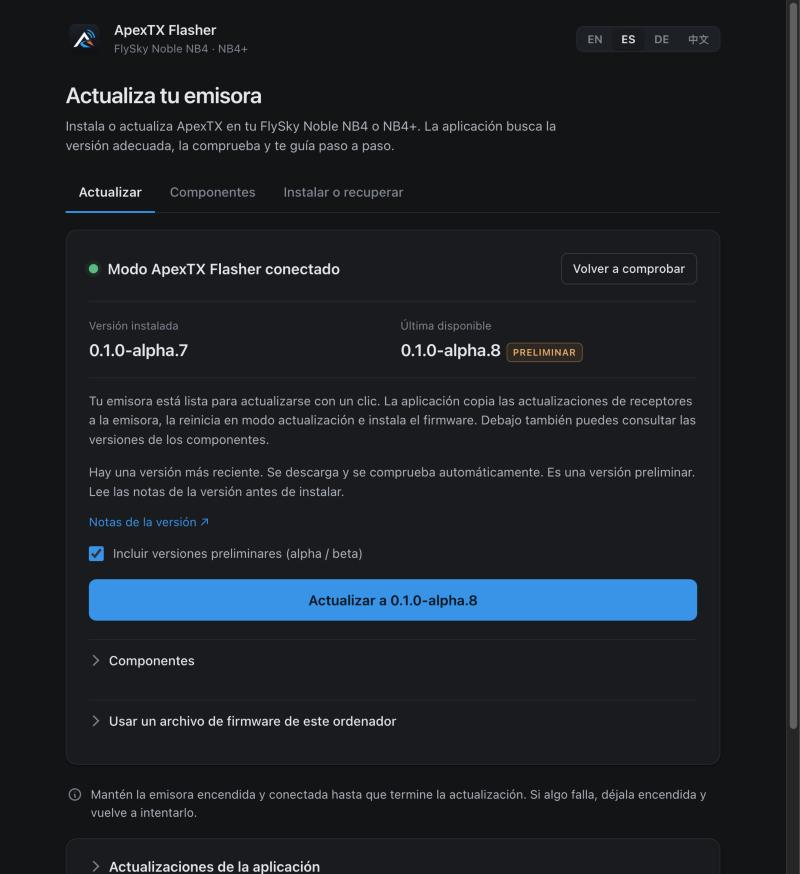
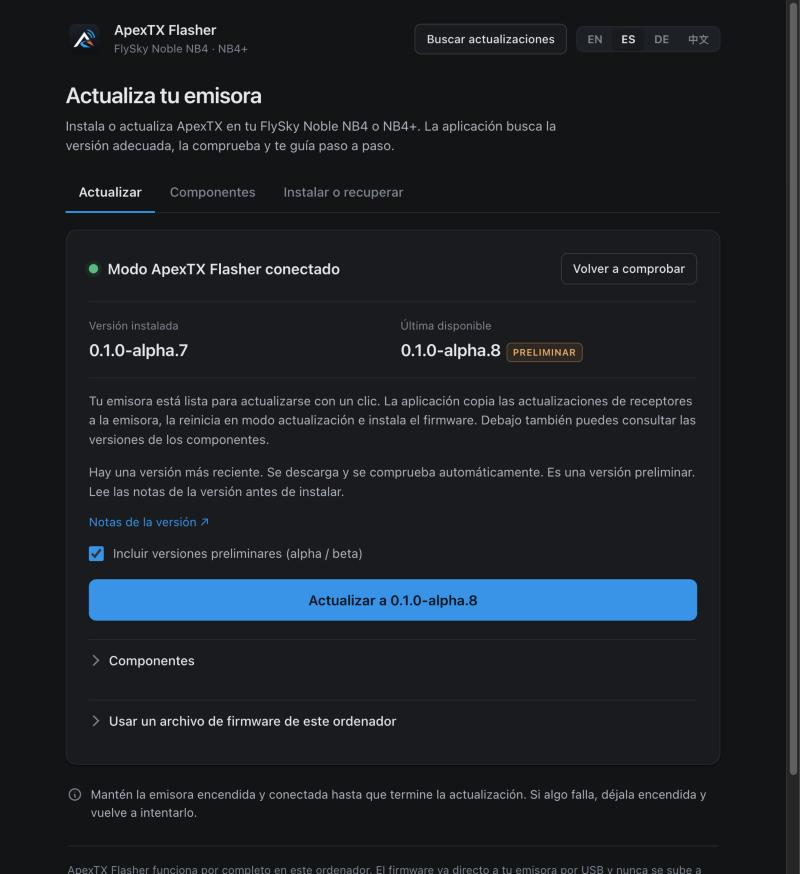
flasher: check for app updates at launch and announce them in a dialog
The desktop app now checks for its own updates every time it opens (and
once a day afterwards) instead of waiting a day after the last check. A
new version is presented in a modal dialog with the release notes, a link
to the GitHub release, "Update and restart", "Remind me later" and "Skip
this version"; download, verification and restart progress stay in the
same dialog. Escape counts as "Remind me later".

"Check for updates" moves to the top bar next to the language switcher and
turns into an "Update available" badge that reopens the dialog while a
version is waiting. The collapsible "App updates" panel is gone; the
installed version, last check and the preview-channel option live in the
footer.

The "Install in my user folder" option is removed. When the app cannot be
replaced in place (disk image, Downloads, read-only folder) the installer
raises RelocationRequired and the controller retries into the user folder
on its own; the footer then shows the new location.

Changed region(s): [[0.0938, 0.9886, 0.875, 1.0], [0.5312, 0.0309, 0.6875, 0.0618], [0.9688, 0.8341, 1.0, 0.8959]]

diff --git a/tools/apextx-updater.html b/tools/apextx-updater.html
@@ -36,6 +36,11 @@ button{font:inherit}
 .brand img{width:40px;height:40px;display:block;border-radius:9px}
 .brand strong{display:block;font-size:15px;font-weight:600;letter-spacing:-.01em;line-height:1.2}
 .brand span{display:block;font-size:12px;color:var(--muted);margin-top:2px}
+.topbar-right{display:flex;align-items:center;gap:10px;flex-wrap:wrap;justify-content:flex-end}
+.topbar-right .quiet{min-height:32px;font-size:12.5px}
+.pill{display:inline-flex;align-items:center;gap:7px;min-height:32px;padding:6px 12px;border:0;border-radius:999px;background:var(--accent);color:var(--accent-ink);font-size:12.5px;font-weight:600;cursor:pointer}
+.pill::before{content:"";width:7px;height:7px;border-radius:50%;background:currentColor;opacity:.85}
+.pill:hover{background:var(--accent-hover)}
 .lang{display:flex;gap:2px;background:var(--surface2);border:1px solid var(--line);border-radius:8px;padding:2px}
 .lang button{all:unset;cursor:pointer;font-size:12px;font-weight:600;color:var(--muted);padding:5px 9px;border-radius:6px;line-height:1}
 .lang button:hover{color:var(--text)}
@@ -137,13 +142,28 @@ details[open]>summary::before{transform:rotate(45deg)}
 .manual .cta{font-size:14px;min-height:40px}
 .wizard-step{border-top:1px solid var(--line);margin-top:16px}
 .wizard-step summary{font-size:15px;font-weight:600}
-#appUpdates{margin-top:18px;padding:4px 24px 20px}
-#appUpdates>summary{font-size:15px;font-weight:600;padding:14px 0}
-#appUpdates>p{font-size:13.5px;color:var(--text2);margin:10px 0 0;overflow-wrap:anywhere}
-#appUpdateStatus{color:var(--text)}
-#appUpdateNotes{white-space:pre-wrap;font:inherit;font-size:13.5px;color:var(--text2);margin:10px 0 0;overflow-wrap:anywhere}
-#appUpdateNotes:empty,#appInstallLocation:empty,#appUpdateError:empty{display:none}
-#appUpdates>p:last-child{font-size:12px;color:var(--muted);margin-top:16px}
+/* App update dialog */
+#appDialog{border:1px solid var(--line);border-radius:14px;background:var(--surface);color:var(--text);padding:0;width:min(540px,calc(100vw - 32px));max-height:calc(100vh - 48px);overflow:auto;box-shadow:0 24px 64px rgba(0,0,0,.35)}
+#appDialog::backdrop{background:rgba(8,10,14,.55)}
+.dlg{padding:26px 28px 24px}
+.dlg-head{display:flex;gap:16px;align-items:flex-start}
+.dlg-head img{width:60px;height:60px;border-radius:14px;flex:none}
+.dlg-head h2{font-size:17px;font-weight:600;letter-spacing:-.01em;margin:6px 0 4px;line-height:1.3}
+.dlg-head p{margin:0;color:var(--text2);font-size:13.5px}
+.dlg-notes{margin:20px 0 0;border:1px solid var(--line);border-radius:9px;background:var(--surface2);padding:12px 14px;max-height:220px;overflow:auto}
+.dlg-notes h3{font-size:11.5px;text-transform:uppercase;letter-spacing:.05em;color:var(--muted);margin:0 0 6px;font-weight:600}
+.dlg-notes pre{white-space:pre-wrap;font:inherit;font-size:13.5px;color:var(--text2);margin:0;overflow-wrap:anywhere;line-height:1.5}
+.dlg-link{display:inline-block;margin-top:12px;font-size:13px;text-decoration:none}
+.dlg-link:hover{text-decoration:underline}
+.dlg-progress{margin-top:22px}
+.dlg-progress p{margin:0;font-size:13.5px;color:var(--text2)}
+#appDialogNote{margin:16px 0 0;font-size:13.5px;color:var(--warn)}
+#appDialogError{margin:16px 0 0;font-size:13.5px}
+.dlg-actions{display:flex;gap:8px;align-items:center;margin-top:24px;flex-wrap:wrap}
+.dlg-actions .spacer{flex:1}
+.dlg-actions .cta{width:auto;margin:0;min-height:36px;padding:7px 18px;font-size:14px}
+.dlg-actions .quiet{margin:0}
+.dlg-signing{margin:18px 0 0;font-size:12px;color:var(--muted);line-height:1.5}
 
 /* Bootloader guide */
 .bootloader-guide{margin-top:22px;border-top:1px solid var(--line);padding-top:20px;scroll-margin-top:20px}
@@ -168,7 +188,12 @@ details[open]>summary::before{transform:rotate(45deg)}
 #componentErrorTechnical{white-space:pre-wrap;overflow-wrap:anywhere;font-size:12px;color:var(--muted);margin:0 0 10px}
 
 footer{font-size:12px;color:var(--muted);margin:26px 2px 0;border-top:1px solid var(--line);padding-top:16px;line-height:1.55}
-footer .meta{display:inline-block;margin-top:6px}
+footer .meta{display:block;margin-top:6px}
+#appUpdateCheck:not(:empty)::before,#appInstallLocation:not(:empty)::before{content:" · "}
+footer #appUpdateError{margin:6px 0 0;font-size:12.5px}
+footer #appUpdateError:empty{display:none}
+.footer-channel{font-size:12.5px;color:var(--muted);margin-top:10px}
+.footer-channel input{width:14px;height:14px;margin-top:2px}
 footer a{color:var(--muted);text-decoration:none}
 footer a:hover{color:var(--text);text-decoration:underline}
 
@@ -179,7 +204,11 @@ button:focus-visible,summary:focus-visible,input:focus-visible,a:focus-visible,s
 <main>
 <header class="topbar">
   <div class="brand"><img src="__LOGO_DATA__" alt=""><div><strong>ApexTX Flasher</strong><span>FlySky Noble NB4 · NB4+</span></div></div>
-  <div class="lang" id="lang"><button data-lang="en">EN</button><button data-lang="es">ES</button><button data-lang="de">DE</button><button data-lang="cn">中文</button></div>
+  <div class="topbar-right">
+    <button class="quiet" id="appCheck" data-k="appCheck">Check for updates</button>
+    <button class="pill" id="appShow" data-k="appShow" hidden></button>
+    <div class="lang" id="lang"><button data-lang="en">EN</button><button data-lang="es">ES</button><button data-lang="de">DE</button><button data-lang="cn">中文</button></div>
+  </div>
 </header>
 
 <h1 data-k="h1">Update your radio</h1>
@@ -310,22 +339,23 @@ button:focus-visible,summary:focus-visible,input:focus-visible,a:focus-visible,s
 <div class="status-row" aria-live="polite"><span id="message"></span><span id="percent">0%</span></div></div>
 
 <p class="note"><svg viewBox="0 0 24 24" fill="none" stroke="currentColor" stroke-width="2" stroke-linecap="round" stroke-linejoin="round"><circle cx="12" cy="12" r="9"/><path d="M12 8h.01M11 12h1v4h1"/></svg><span data-k="note"></span></p>
-<details class="panel" id="appUpdates">
-<summary data-k="appTitle">App updates</summary>
-<p id="appUpdateStatus" role="status" aria-live="polite"></p>
-<pre id="appUpdateNotes"></pre>
-<p id="appInstallLocation" class="device-help"></p>
+<dialog id="appDialog" aria-labelledby="appDialogTitle">
+<div class="dlg">
+<div class="dlg-head"><img src="__LOGO_DATA__" alt=""><div><h2 id="appDialogTitle" data-k="appDialogTitle"></h2><p id="appDialogLead"></p></div></div>
+<div class="dlg-notes" id="appDialogNotes"><h3 id="appWhatsNew"></h3><pre id="appUpdateNotes"></pre></div>
+<a class="dlg-link" id="appReleaseLink" target="_blank" rel="noreferrer noopener" data-k="appReleaseLink" hidden></a>
+<div class="dlg-progress" id="appDialogProgress" hidden><progress id="appDialogBar" max="100" value="0" aria-label="Progress"></progress><p id="appDialogState"></p></div>
+<p id="appDialogNote"></p>
+<p id="appDialogError" class="error" role="alert"></p>
+<div class="actions"><button type="button" class="quiet" id="appRadioSafe" hidden data-k="appRadioSafe"></button></div>
+<div class="dlg-actions"><button type="button" class="quiet" id="appSkip" data-k="appSkip"></button><span class="spacer"></span><button type="button" class="quiet" id="appLater" data-k="appLater"></button><button type="button" class="cta" id="appInstall" data-k="appInstall"></button></div>
+<p class="dlg-signing" data-k="appSigning"></p>
+</div>
+</dialog>
+<footer><span data-k="footer"></span>
+<div class="meta"><span id="appUpdateStatus" role="status" aria-live="polite"></span> · <a href="https://github.com/GastonGelhorn/apextx" target="_blank" rel="noreferrer noopener">github.com/GastonGelhorn/apextx</a><span id="appUpdateCheck"></span><span id="appInstallLocation"></span></div>
 <p id="appUpdateError" class="error" role="alert"></p>
-<label class="channel"><input type="checkbox" id="appPreview"><span data-k="appPreview"></span></label>
-<label class="channel"><input type="checkbox" id="appRelocate"><span data-k="appRelocate"></span></label>
-<div class="actions"><button class="cta" id="appInstall" data-k="appInstall">Update and restart</button>
-<button class="quiet" id="appCheck" data-k="appCheck">Check for updates</button>
-<button class="quiet" id="appLater" data-k="appLater"></button>
-<button class="quiet" id="appSkip" data-k="appSkip"></button></div>
-<div class="actions"><button class="quiet" id="appRadioSafe" hidden data-k="appRadioSafe"></button></div>
-<p data-k="appSigning"></p>
-</details>
-<footer><span data-k="footer"></span><br><span class="meta">ApexTX&nbsp;Flasher&nbsp;__APP_VERSION__ · <a href="https://github.com/GastonGelhorn/apextx" target="_blank" rel="noreferrer noopener">github.com/GastonGelhorn/apextx</a></span></footer>
+<label class="channel footer-channel"><input type="checkbox" id="appPreview"><span data-k="appPreview"></span></label></footer>
 </main>
 <script>
 document.getElementById("driverNote").hidden=document.getElementById("bootloaderDriver").hidden=document.documentElement.dataset.platform!=="win32";
@@ -532,17 +562,19 @@ en:{
  "wizardAudioDownload":"Download and prepare",
  "publishingRf":"Copying receiver updates to the radio…",
  "rebooting":"Restarting the radio in update mode…",
- "appTitle":"App updates",
  "appPreview":"Include preview versions of the app",
- "appRelocate":"Install in my user folder",
  "appCheck":"Check for updates",
  "appInstall":"Update and restart",
- "appLater":"Remind me tomorrow",
+ "appLater":"Remind me later",
  "appSkip":"Skip this version",
+ "appShow":"Update available",
+ "appDialogTitle":"A new version of ApexTX Flasher is available",
+ "appDialogLead":"ApexTX Flasher {available} is ready to install. You have version {version}.",
+ "appWhatsNew":"What's new in {version}",
+ "appReleaseLink":"View all release notes ↗",
  "appRadioSafe":"I checked the radio; recovery is finished",
  "appSigning":"Updates are signed by ApexTX and checked before they are installed. Windows or macOS may ask for permission the first time the new version opens.",
  "appInstalled":"ApexTX Flasher {version}",
- "appAvailable":"Version {version} is available.",
  "appCurrent":"You have the latest version.",
  "appChecking":"Checking for updates…",
  "appDownloading":"Downloading… {progress}%",
@@ -757,17 +789,19 @@ es:{
  "wizardAudioDownload":"Descargar y preparar",
  "publishingRf":"Copiando las actualizaciones de receptores a la emisora…",
  "rebooting":"Reiniciando la emisora en modo actualización…",
- "appTitle":"Actualizaciones de la aplicación",
  "appPreview":"Incluir versiones preliminares de la aplicación",
- "appRelocate":"Instalar en mi carpeta de usuario",
  "appCheck":"Buscar actualizaciones",
  "appInstall":"Actualizar y reiniciar",
- "appLater":"Recordármelo mañana",
+ "appLater":"Recordármelo más tarde",
  "appSkip":"Omitir esta versión",
+ "appShow":"Actualización disponible",
+ "appDialogTitle":"Hay una nueva versión de ApexTX Flasher",
+ "appDialogLead":"ApexTX Flasher {available} está lista para instalarse. Tienes la versión {version}.",
+ "appWhatsNew":"Novedades de {version}",
+ "appReleaseLink":"Ver todas las notas de la versión ↗",
  "appRadioSafe":"He revisado la emisora; la recuperación ha terminado",
  "appSigning":"Las actualizaciones están firmadas por ApexTX y se comprueban antes de instalarse. Windows o macOS pueden pedir permiso la primera vez que se abra la nueva versión.",
  "appInstalled":"ApexTX Flasher {version}",
- "appAvailable":"La versión {version} está disponible.",
  "appCurrent":"Tienes la última versión.",
  "appChecking":"Buscando actualizaciones…",
  "appDownloading":"Descargando… {progress}%",
@@ -982,17 +1016,19 @@ de:{
  "wizardAudioDownload":"Herunterladen und vorbereiten",
  "publishingRf":"Empfänger-Updates werden auf den Sender kopiert…",
  "rebooting":"Sender startet im Update-Modus neu…",
- "appTitle":"App-Updates",
  "appPreview":"Vorschauversionen der App einschließen",
- "appRelocate":"In meinem Benutzerordner installieren",
  "appCheck":"Nach Updates suchen",
  "appInstall":"Aktualisieren und neu starten",
- "appLater":"Morgen erinnern",
+ "appLater":"Später erinnern",
  "appSkip":"Diese Version überspringen",
+ "appShow":"Update verfügbar",
+ "appDialogTitle":"Eine neue Version von ApexTX Flasher ist verfügbar",
+ "appDialogLead":"ApexTX Flasher {available} kann jetzt installiert werden. Du hast Version {version}.",
+ "appWhatsNew":"Neu in {version}",
+ "appReleaseLink":"Alle Versionshinweise ansehen ↗",
  "appRadioSafe":"Ich habe den Sender geprüft; die Wiederherstellung ist abgeschlossen",
  "appSigning":"Updates sind von ApexTX signiert und werden vor der Installation geprüft. Windows oder macOS fragen beim ersten Öffnen der neuen Version eventuell um Erlaubnis.",
  "appInstalled":"ApexTX Flasher {version}",
- "appAvailable":"Version {version} ist verfügbar.",
  "appCurrent":"Du hast die neueste Version.",
  "appChecking":"Updates werden gesucht…",
  "appDownloading":"Wird heruntergeladen… {progress}%",
@@ -1207,17 +1243,19 @@ cn:{
  "wizardAudioDownload":"下载并准备",
  "publishingRf":"正在将接收机更新复制到遥控器…",
  "rebooting":"遥控器正在重启进入更新模式…",
- "appTitle":"应用更新",
  "appPreview":"包含应用的预览版",
- "appRelocate":"安装到我的用户文件夹",
  "appCheck":"检查更新",
  "appInstall":"更新并重启",
- "appLater":"明天提醒我",
+ "appLater":"稍后提醒我",
  "appSkip":"跳过此版本",
+ "appShow":"有可用更新",
+ "appDialogTitle":"ApexTX Flasher 有新版本",
+ "appDialogLead":"ApexTX Flasher {available} 已可安装。你当前的版本是 {version}。",
+ "appWhatsNew":"{version} 的新功能",
+ "appReleaseLink":"查看全部版本说明 ↗",
  "appRadioSafe":"我已检查遥控器；恢复已完成",
  "appSigning":"更新由 ApexTX 签名，并在安装前进行校验。首次打开新版本时，Windows 或 macOS 可能会请求权限。",
  "appInstalled":"ApexTX Flasher {version}",
- "appAvailable":"版本 {version} 可用。",
  "appCurrent":"你已安装最新版本。",
  "appChecking":"正在检查更新…",
  "appDownloading":"正在下载… {progress}%",
@@ -1399,41 +1437,56 @@ rstart.onclick=()=>send('/api/recover',rfile.files[0],{'X-ApexTX-Radio-Variant':
 function clearError(){localError=null;if(!snapshot?.operation){$('#transfer').hidden=true;message.textContent='';message.className='';}}
 function showError(text){if(mode==='components'){$('#componentTransferSlot').appendChild($('#transfer'));$('#componentErrorDetails').hidden=false;$('#componentErrorTechnical').textContent=text;text=componentError(text);}localError=text;message.textContent=text;message.className='error';$('#transfer').hidden=false;}
 async function request(path,data={}){localError=null;requesting=true;render();try{const r=await fetch(path,{method:'POST',headers:{'X-ApexTX-Token':token,'Content-Type':'application/json'},body:JSON.stringify(data)});const j=await r.json();if(!r.ok)throw Error(j.error);if(path.startsWith('/api/components/')&&r.status===202)running=true;return true;}catch(e){showError(e.message);return false;}finally{requesting=false;render();}}
+const appDialog=$('#appDialog');let dialogShown=null,dialogPinned=false;
+function openDialog(){if(appDialog.open)return;if(appDialog.showModal)appDialog.showModal();else appDialog.open=true;}
+function closeDialog(){dialogPinned=false;if(!appDialog.open)return;if(appDialog.close)appDialog.close();else appDialog.open=false;}
 function renderAppUpdate(){
- const a=snapshot?.app_update||{},d=T[lang],busy=['downloading','verifying','restarting'].includes(a.state);
- let text=(d.appInstalled||'').replace('{version}',a.version||'__APP_VERSION__');
- const key={checking:'appChecking',current:'appCurrent',downloading:'appDownloading',verifying:'appVerifying',restarting:'appRestarting',error:'appOffline'}[a.state];
- if(key)text+=' · '+d[key].replace('{progress}',a.progress||0);
- else if(a.available&&!a.hidden)text+=' · '+d.appAvailable.replace('{version}',a.available);
- if(a.blocked)text+=' '+d.appBlocked;
- if(!a.supported)text+=' '+d.appUnsupported;
- if(a.available&&!a.compatible)text+=' '+d.appIncompatible;
- if(a.last_check)text+=' '+d.appLastCheck.replace('{date}',new Date(a.last_check*1000).toLocaleString());
- if(a.last_result?.result==='updated'&&a.last_result.version===a.version)text+=' '+d.appUpdated;
+ const a=snapshot?.app_update||{},d=T[lang],busy=['downloading','verifying','restarting'].includes(a.state),offer=!!a.available&&!!a.supported;
+ const stateKey={checking:'appChecking',current:'appCurrent',downloading:'appDownloading',verifying:'appVerifying',restarting:'appRestarting',error:'appOffline'}[a.state];
+ // Top bar button, footer status and channel.
+ let text=d.appInstalled.replace('{version}',a.version||'__APP_VERSION__');
+ if(busy||a.state==='checking'||(a.state==='error'&&!a.available))text+=' · '+d[stateKey].replace('{progress}',a.progress||0);
+ else if(a.last_result?.result==='updated'&&a.last_result.version===a.version)text+=' · '+d.appUpdated;
+ else if(a.state==='current'&&!a.available)text+=' · '+d.appCurrent;
+ if(!a.supported)text+=' · '+d.appUnsupported;
  $('#appUpdateStatus').textContent=text;
+ $('#appUpdateCheck').textContent=a.last_check&&!busy?d.appLastCheck.replace('{date}',new Date(a.last_check*1000).toLocaleString(undefined,{dateStyle:'medium',timeStyle:'short'})):'';
  $('#appInstallLocation').textContent=a.last_result?.location||'';
- $('#appUpdateError').textContent=a.error||a.last_result?.error||'';
- $('#appUpdateNotes').textContent=a.hidden?'':a.notes||'';
- $('#appInstall').disabled=busy||requesting||a.blocked||!a.supported||!a.compatible||!a.available||a.state==='checking';
- $('#appCheck').disabled=busy||requesting||a.state==='checking';
+ $('#appUpdateError').textContent=a.last_result?.error||'';
+ $('#appCheck').hidden=offer&&!busy;$('#appCheck').disabled=busy||requesting||a.state==='checking';
+ $('#appShow').hidden=!offer||busy;$('#appShow').disabled=requesting;
  $('#appPreview').checked=!!a.preview;$('#appPreview').disabled=busy||requesting||a.state==='checking';
- $('#appRelocate').disabled=busy||requesting;
- $('#appLater').hidden=$('#appSkip').hidden=!a.available||a.hidden||busy;
  $('#appRadioSafe').hidden=!snapshot?.radio_unconfirmed;$('#appRadioSafe').disabled=!!snapshot?.running||!!snapshot?.bootloader_install;
- if(a.available&&!a.hidden&&!running&&!a.blocked)$('#appUpdates').open=true;
+ // Update dialog: shown once per offer after the automatic check, again on request.
+ $('#appDialogLead').textContent=offer?d.appDialogLead.replace('{available}',a.available).replace('{version}',a.version||''):'';
+ $('#appWhatsNew').textContent=d.appWhatsNew.replace('{version}',a.available||'');
+ $('#appUpdateNotes').textContent=a.notes||'';
+ $('#appDialogNotes').hidden=!a.notes||busy;
+ $('#appReleaseLink').hidden=!a.release_url||busy;if(a.release_url)$('#appReleaseLink').href=a.release_url;
+ $('#appDialogProgress').hidden=!busy;
+ if(busy){$('#appDialogBar').value=a.state==='downloading'?(a.progress||0):100;$('#appDialogState').textContent=d[stateKey].replace('{progress}',a.progress||0);}
+ $('#appDialogNote').textContent=busy?'':a.blocked?d.appBlocked:offer&&!a.compatible?d.appIncompatible:'';
+ $('#appDialogError').textContent=busy?'':(a.error||'');
+ $('#appInstall').hidden=busy;$('#appInstall').disabled=busy||requesting||!!a.blocked||!a.compatible||!offer||a.state==='checking';
+ $('#appLater').hidden=$('#appSkip').hidden=busy;$('#appLater').disabled=$('#appSkip').disabled=requesting;
+ if(offer&&!a.hidden&&!a.blocked&&!snapshot?.running&&dialogShown!==a.available){dialogShown=a.available;openDialog();}
+ else if(offer&&(busy||dialogPinned))openDialog();
+ if(!offer||(a.hidden&&!busy&&!dialogPinned))closeDialog();
 }
 async function appRequest(action,data={}){
- // Errors belong to the desktop app panel, never the radio progress panel.
+ // Errors belong to the desktop app panel or dialog, never the radio progress panel.
  requesting=true;render();
  try{const r=await fetch('/api/app-update/'+action,{method:'POST',headers:{'X-ApexTX-Token':token,'Content-Type':'application/json'},body:JSON.stringify(data)});const j=await r.json();if(!r.ok)throw Error(j.error);}
- catch(e){$('#appUpdateError').textContent=e.message;}
+ catch(e){$('#appDialogError').textContent=e.message;if(!appDialog.open)$('#appUpdateError').textContent=e.message;}
  finally{requesting=false;}
 }
 $('#appCheck').onclick=()=>appRequest('check');
 $('#appPreview').onchange=()=>appRequest('check',{preview:$('#appPreview').checked});
-$('#appInstall').onclick=()=>{if(!$('#appInstall').disabled)return appRequest('install',{version:snapshot.app_update.available,relocate:$('#appRelocate').checked});};
-$('#appLater').onclick=()=>appRequest('later');
-$('#appSkip').onclick=()=>appRequest('skip');
+$('#appShow').onclick=()=>{if($('#appShow').disabled)return;dialogPinned=true;openDialog();};
+$('#appInstall').onclick=()=>{if(!$('#appInstall').disabled)return appRequest('install',{version:snapshot.app_update.available});};
+$('#appLater').onclick=()=>{dialogPinned=false;return appRequest('later');};
+$('#appSkip').onclick=()=>{dialogPinned=false;return appRequest('skip');};
+if(appDialog.addEventListener)appDialog.addEventListener('cancel',e=>{e.preventDefault();if(!$('#appLater').hidden&&!$('#appLater').disabled)$('#appLater').onclick();});
 $('#appRadioSafe').onclick=()=>appRequest('acknowledge-radio');
 $('#refresh').onclick=()=>request('/api/refresh');
 $('#readComponents').onclick=()=>{if($('#readComponents').disabled)return;const device=snapshot.device;return request('/api/components/read',{serial:device.serial,target:device.target});};
@@ -1479,7 +1532,7 @@ async function poll(){try{const r=await fetch('/api/status',{headers:{'X-ApexTX-
  if(snapshot.operation&&!localError&&!requesting){$('#transfer').hidden=false;message.textContent=operationMessage(snapshot);message.className=snapshot.error?'error':snapshot.progress===100?'good':'';bar.value=snapshot.progress;percent.textContent=`${snapshot.progress}%`;}
  render();
  if(snapshot.bootloader_install&&!hadGuide){$('#bootloaderGuideTitle').focus({preventScroll:true});$('#bootloaderGuide').scrollIntoView({block:'start',behavior:'smooth'});}
- }catch(e){if(snapshot?.app_update?.state==='restarting'){$('#appUpdateStatus').textContent=T[lang].appRestarting;return;}showError(T[lang].unavailable);start.disabled=rstart.disabled=$('#upgrade').disabled=$('#bootloaderInstall').disabled=$('#bootloaderCancel').disabled=true;}
+ }catch(e){if(snapshot?.app_update?.state==='restarting'){$('#appUpdateStatus').textContent=$('#appDialogState').textContent=T[lang].appRestarting;return;}showError(T[lang].unavailable);start.disabled=rstart.disabled=$('#upgrade').disabled=$('#bootloaderInstall').disabled=$('#bootloaderCancel').disabled=true;}
  setTimeout(poll,800);
 }
 applyLang(pick());poll();

diff --git a/tools/flasher_app_update.py b/tools/flasher_app_update.py
@@ -34,6 +34,10 @@ class AppUpdateError(RuntimeError):
         self.retry_seconds = retry_seconds
 
 
+class RelocationRequired(AppUpdateError):
+    """The running copy cannot be replaced in place; install in the user folder."""
+
+
 def json_object(raw):
     def unique(pairs):
         result = {}
@@ -346,7 +350,9 @@ class AppUpdateController:
         self.stopped = threading.Event()
         self.client = client or AppReleaseClient()
         self.checking = False
-        self.next_check = self.preferences.get('last_check', 0) + 86400
+        # Check at every launch (the monitor fires a couple of seconds after
+        # start-up), then once a day while the app stays open.
+        self.next_check = 0
         cached = self.preferences.get('offer')
         if cached:
             try:
@@ -374,6 +380,7 @@ class AppUpdateController:
             if self.offer:
                 doc = self.offer['document']
                 result.update(available=doc['version'], notes=doc['notes'], compatible=self.offer['compatible'],
+                    release_url=f'https://github.com/{REPOSITORY}/releases/tag/flasher-v{doc["version"]}',
                     hidden=(self.preferences.get('skip') == doc['version'] or time.time() < self.preferences.get('snooze', 0)))
             return result
 
@@ -471,7 +478,14 @@ class AppUpdateController:
                     folder = Path(tempfile.mkdtemp(prefix='update-', dir=self.directory))
                     self.client.download(offer, folder, self.progress)
                 self.state['state'] = 'verifying'
-                transaction = prepare(folder, offer, relocate)
+                try:
+                    transaction = prepare(folder, offer, relocate)
+                except RelocationRequired:
+                    # A copy on a disk image, in Downloads or in a folder the
+                    # user cannot write moves to the user folder on its own.
+                    if relocate:
+                        raise
+                    transaction = prepare(folder, offer, True)
                 start_helper(transaction)
                 with self.session.lock:
                     # Reservation prevents every device operation until exit.

diff --git a/tools/flasher_app_installer.py b/tools/flasher_app_installer.py
@@ -13,7 +13,7 @@ import time
 import zipfile
 from pathlib import Path, PurePosixPath
 
-from flasher_app_update import (AppUpdateError, MANIFEST, SIGNATURE, atomic_json,
+from flasher_app_update import (AppUpdateError, RelocationRequired, MANIFEST, SIGNATURE, atomic_json,
     data_directory, file_digest, json_object, target_platform, verify_manifest, InstanceLease)
 
 EXECUTABLE = 'Contents/MacOS/ApexTX-Flasher'
@@ -128,13 +128,13 @@ def prepare(folder, offer, relocate=False):
             raise AppUpdateError('The user installation already exists. Open that copy to update it.')
     if (sys.platform == 'darwin' and (str(current).startswith('/Volumes/') or '/AppTranslocation/' in str(current))
             and not relocate):
-        raise AppUpdateError('Choose “Install in my user folder” to update this copy.')
+        raise RelocationRequired('This copy runs from a disk image or download and is installed in the user folder instead.')
     # Staging in the destination's parent makes atomic replacement possible.
     try:
         stage = destination.parent / ('.apextx-update-' + secrets.token_hex(12))
         stage.mkdir(mode=0o700)
     except OSError as error:
-        raise AppUpdateError('The app folder is not writable. Choose “Install in my user folder”.') from error
+        raise RelocationRequired('The app folder is not writable; the update is installed in the user folder instead.') from error
     if shutil.disk_usage(stage).free < item['size'] * 4 + 64 * 1024**2:
         raise AppUpdateError('Not enough space in the installation folder.')
     if sys.platform == 'darwin':

diff --git a/docs/nb4/FLASHER_SELF_UPDATE.md b/docs/nb4/FLASHER_SELF_UPDATE.md
@@ -73,11 +73,11 @@ flasher or touches USB.
 Windows uses same-volume `ReplaceFileW` with a retained old EXE. macOS exchanges
 whole bundles atomically with `RENAME_SWAP`. If replacement is unsupported or
 blocked, the old app is retained. A non-writable folder, disk image or translocated
-Mac app can be migrated explicitly with **Install in my user folder** to
-`~/Applications` or `%LOCALAPPDATA%\Programs\ApexTX Flasher`. No elevation or
-privileged service is used. The original is retained on relocation; open the new
-copy from that folder afterwards. An existing different user installation is not
-overwritten silently.
+Mac app is migrated automatically to `~/Applications` or
+`%LOCALAPPDATA%\Programs\ApexTX Flasher`; the footer then names the new
+location. No elevation or privileged service is used. The original is retained
+on relocation; open the new copy from that folder afterwards. An existing
+different user installation is not overwritten silently.
 
 A private transaction journal and old copy survive crashes. The new app starts
 with radio discovery disabled; the UI handshake and helper confirmation must

diff --git a/docs/nb4/FLASHER.md b/docs/nb4/FLASHER.md
@@ -53,6 +53,13 @@ Simplified Chinese.
 | --- | --- |
 | ![Update tab in light appearance](images/flasher-update-en.png) | ![One-click update in dark appearance](images/flasher-update-dark-es.png) |
 
+The app checks for its own updates when it opens and once a day afterwards.
+A new version is announced in a dialog with the release notes; **Check for
+updates** in the top bar checks on demand and becomes an **Update available**
+badge while a version is waiting.
+
+![App update dialog](images/flasher-app-update-en.png)
+
 The application icon is the ApexTX mark on a dark tile, rendered from the
 brand logo by [`tools/nb4-flasher-icon.py`](../../tools/nb4-flasher-icon.py)
 into `tools/apextx-flasher-icon.png`; `build-flasher.py` turns that master into
